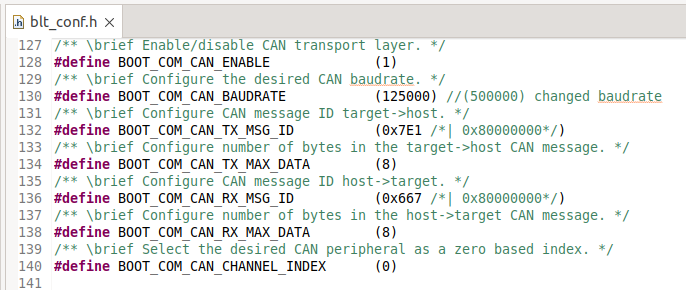
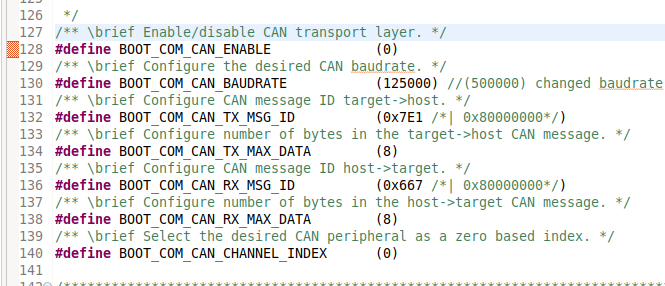
updating docummentation files solving issues

diff --git a/Boot/App/blt_conf.h b/Boot/App/blt_conf.h
@@ -70,7 +70,7 @@
  * when the receiver node identifier matches BOOT_COM_MBRTU_NODE_ID.
  */
 /** \brief Enable/disable RS485 transport layer. */
-#define BOOT_COM_MBRTU_ENABLE            (0)
+#define BOOT_COM_MBRTU_ENABLE            (1)
 /** \brief Configure the desired communication speed. */
 #define BOOT_COM_MBRTU_BAUDRATE          (57600)
 /** \brief Configure the desired number of stopbits (1 or 2). */
@@ -125,7 +125,7 @@
  *
  */
 /** \brief Enable/disable CAN transport layer. */
-#define BOOT_COM_CAN_ENABLE             (1)
+#define BOOT_COM_CAN_ENABLE             (0)
 /** \brief Configure the desired CAN baudrate. */
 #define BOOT_COM_CAN_BAUDRATE           (125000) //(500000) changed baudrate
 /** \brief Configure CAN message ID target->host. */
